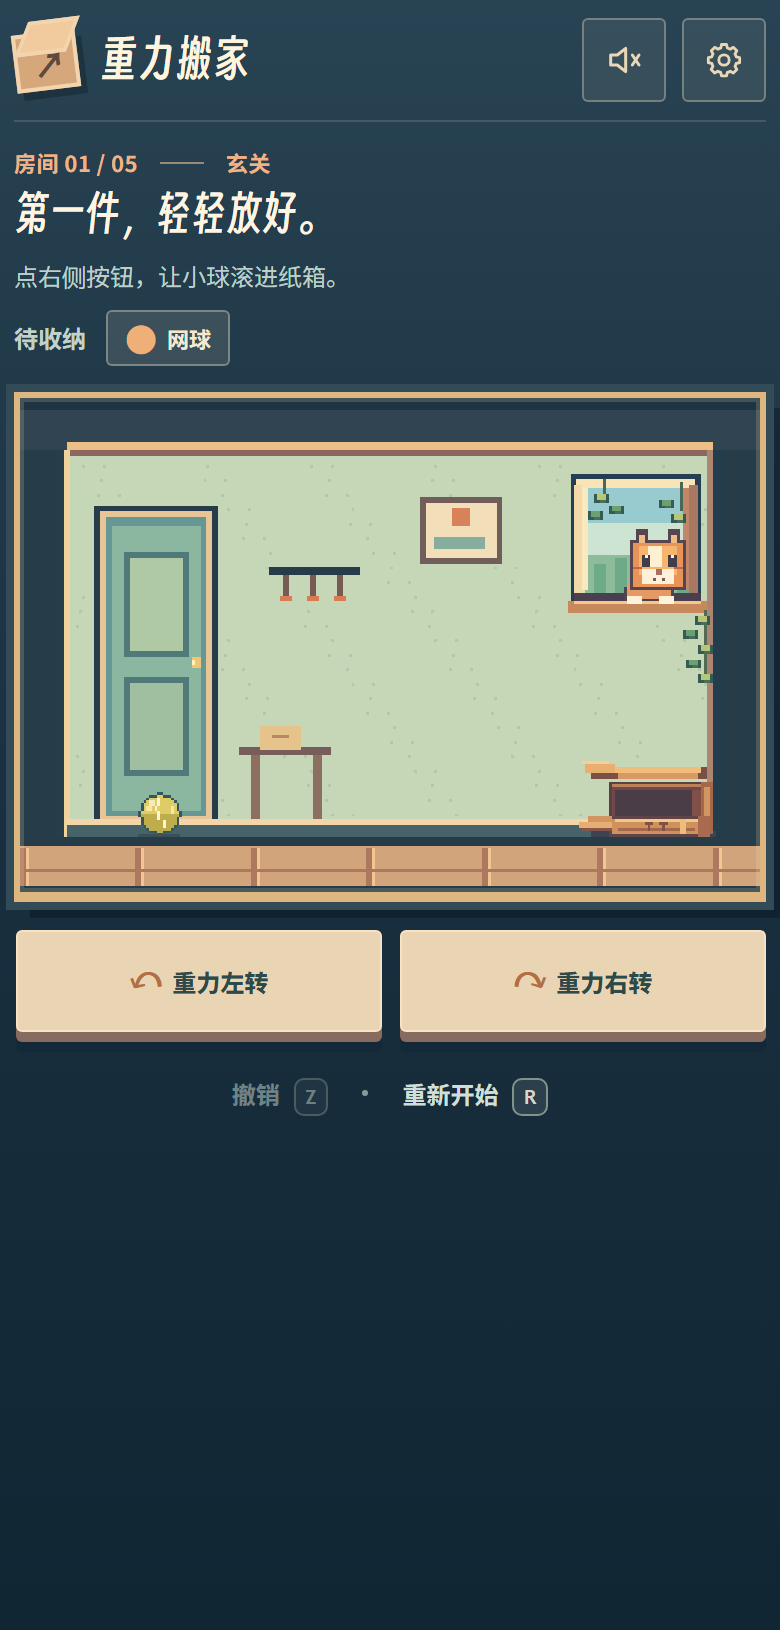
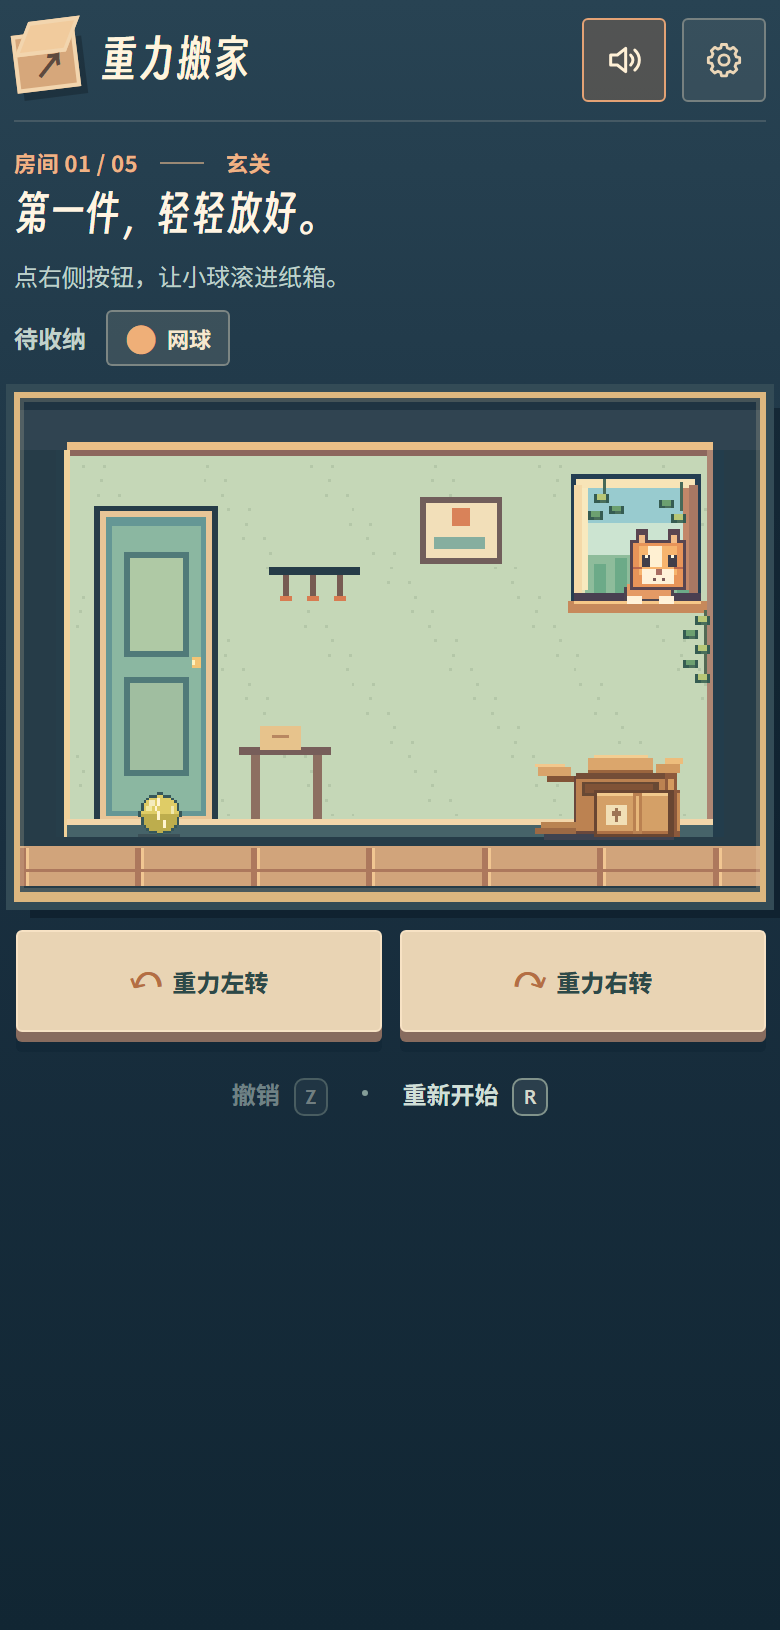
Refine carton art and add pixel dialogue audio

Changed region(s): [[0.6769, 0.4601, 0.9231, 0.5215], [0.7385, 0.0, 0.8615, 0.0613], [0.8923, 0.3988, 0.9231, 0.4294]]

diff --git a/index.html b/index.html
@@ -921,39 +921,44 @@ function createPixelArt(ctx, state) {
     const last = state.captures.at(-1);
     const age = last ? time - last.startedAt : -1000;
     const shake = age > 300 && age < 650 ? Math.round(Math.sin(age * .09) * (1 - Math.abs(age - 475) / 175)) : 0;
-    const x = 198 + shake;
-    // The carton is open on its left and upper face, matching the routes by
-    // which pieces can actually enter. Its back and floor sit behind them.
-    worldPixel(x - 5, 149, 42, 2, '#3f4350');
-    worldPixel(x + 1, 132, 35, 18, '#5a4143');
-    worldPixel(x + 2, 133, 32, 15, '#bb8058');
-    worldPixel(x + 2, 134, 30, 12, '#70474a');
-    worldPixel(x + 3, 135, 27, 10, '#4a3d47');
-    worldPixel(x + 29, 135, 3, 10, '#815147');
-    worldPixel(x + 32, 132, 4, 18, '#a5694a');
-    worldPixel(x + 33, 134, 2, 13, '#d29561');
-    worldPixel(x + 1, 127, 33, 4, '#795046');
-    worldPixel(x + 2, 127, 30, 2, '#f0bd7b');
-    worldPixel(x + 4, 129, 27, 2, '#d89966');
-    worldPixel(x - 5, 129, 9, 2, '#7a5047');
-    worldPixel(x - 7, 126, 10, 3, '#e9af71');
-    worldPixel(x - 8, 125, 9, 1, '#f6d195');
+    const x = 182 + shake;
+    // Open cardboard carton: rear flap and dark opening sit behind the items.
+    // The left corner stays open so objects can enter at floor height.
+    worldPixel(x - 5, 150, 44, 2, '#3f4350');
+    worldPixel(x + 5, 130, 34, 20, '#69473c');
+    worldPixel(x + 6, 131, 31, 18, '#bc8251');
+    worldPixel(x + 8, 132, 26, 5, '#684934');
+    worldPixel(x + 9, 133, 23, 3, '#805337');
+    worldPixel(x + 6, 129, 31, 2, '#744d37');
+    worldPixel(x + 10, 124, 22, 5, '#dba66c');
+    worldPixel(x + 12, 123, 18, 1, '#f3ce92');
+    worldPixel(x + 10, 128, 22, 1, '#9b653e');
+    worldPixel(x + 36, 129, 4, 19, '#8e5a3c');
+    worldPixel(x + 37, 131, 2, 15, '#d49a5f');
+    // Two unfolded top flaps make the silhouette read as a moving box.
+    worldPixel(x - 4, 130, 9, 2, '#825336');
+    worldPixel(x - 7, 127, 11, 3, '#d9a36a');
+    worldPixel(x - 8, 126, 10, 1, '#f2c88d');
+    worldPixel(x + 33, 126, 8, 3, '#d29a60');
+    worldPixel(x + 36, 124, 6, 2, '#edbd7c');
     return () => {
-      // A low near-side wall masks the lower edge of an arriving item. The
-      // mouth stays unobstructed, so rolling in no longer crosses a solid side.
-      worldPixel(x + 1, 144, 34, 7, '#604447');
-      worldPixel(x + 2, 145, 31, 5, '#cf925f');
-      worldPixel(x + 3, 145, 29, 1, '#f4c786');
-      worldPixel(x + 4, 148, 26, 1, '#a5694a');
-      worldPixel(x + 14, 146, 1, 3, '#825244');
-      worldPixel(x + 13, 146, 3, 1, '#825244');
-      worldPixel(x + 19, 146, 1, 3, '#825244');
-      worldPixel(x + 18, 146, 3, 1, '#825244');
-      worldPixel(x + 25, 145, 2, 5, '#edbd7e');
-      worldPixel(x - 6, 144, 8, 2, '#d29461');
-      worldPixel(x - 9, 146, 11, 2, '#e7ad72');
-      worldPixel(x - 8, 148, 10, 1, '#84554a');
-      worldPixel(x + 31, 144, 4, 7, '#a96b4f');
+      // A broad, uninterrupted kraft front hides collected pieces and reads
+      // as cardboard rather than a cabinet door or drawer.
+      worldPixel(x + 12, 135, 27, 16, '#694632');
+      worldPixel(x + 13, 136, 24, 14, '#d4a067');
+      worldPixel(x + 13, 136, 24, 1, '#f1c98d');
+      worldPixel(x + 13, 149, 24, 1, '#ad7145');
+      worldPixel(x + 25, 136, 3, 14, '#ba8151');
+      worldPixel(x + 26, 137, 1, 12, '#e7b77a');
+      worldPixel(x + 16, 140, 7, 7, '#f1dfb6');
+      worldPixel(x + 19, 141, 1, 5, '#9d7455');
+      worldPixel(x + 18, 142, 3, 1, '#9d7455');
+      worldPixel(x + 18, 143, 1, 1, '#9d7455');
+      worldPixel(x + 20, 143, 1, 1, '#9d7455');
+      worldPixel(x + 39, 135, 2, 16, '#8b593c');
+      worldPixel(x + 40, 136, 1, 13, '#c88c55');
+      worldPixel(x - 6, 146, 12, 3, '#b98351');
+      worldPixel(x - 8, 148, 14, 2, '#9c6944');
     };
   }
 
@@ -973,11 +978,11 @@ function createPixelArt(ctx, state) {
         ctx.save(); ctx.globalAlpha = 1 - age / 380;
         ctx.strokeStyle = '#fff0ab'; ctx.lineWidth = 8;
         const r = 16 + age / 14;
-        ctx.strokeRect(874 - r, 550 - r * .6, r * 2, r * 1.2);
+        ctx.strokeRect(830 - r, 550 - r * .6, r * 2, r * 1.2);
         ctx.restore();
       }
       for (let i = 0; i < 20; i++) {
-        const x = 874 + ((i * 37) % 29 - 14) * 8 * t;
+        const x = 830 + ((i * 37) % 29 - 14) * 8 * t;
         const y = 542 - (110 + (i * 11) % 70) * t + 115 * t * t;
         ctx.save(); ctx.globalAlpha = Math.min(1, (900 - age) / 210);
         fill(ctx, Math.round(x / P) * P, Math.round(y / P) * P, 8, 8, ['#ffe2a3', '#ec9b6a', '#a8d6a2', '#fff4d1'][i % 4]);
@@ -1002,7 +1007,7 @@ function createPixelArt(ctx, state) {
   const { Engine, Bodies, Body, Composite, Events, Sleeping } = Matter;
   const W = 1000, H = 680;
   const FLOOR = 604, CEILING = 76, LEFT = 62, RIGHT = 938;
-  const CATCH = { x: 826, y: 530, w: 108, h: 74 };
+  const CATCH = { x: 800, y: 530, w: 88, h: 74 };
   const DIRECTIONS = [
     { x: 0, y: 1, arrow: '↓', name: '向下' },
     { x: 1, y: 0, arrow: '→', name: '向右' },
@@ -1534,6 +1539,9 @@ function createPixelArt(ctx, state) {
         });
       } else if (kind === 'ui') {
         tone('sine', 620, 810, t, .12, .025);
+      } else if (kind === 'type') {
+        const pitch = 590 + (material.codePointAt(0) % 4) * 42;
+        tone('square', pitch, pitch * .8, t, .032, .006);
       }
     } catch { /* Audio is optional. */ }
   }
@@ -1553,7 +1561,7 @@ function createPixelArt(ctx, state) {
       if (progress >= 1) continue;
       const eased = 1 - Math.pow(1 - progress, 3);
       const item = LEVELS[state.level].items.find(i => i.id === capture.id);
-      const body = { position: { x: capture.x + (880 - capture.x) * eased, y: capture.y + (570 - capture.y) * eased }, angle: capture.angle + eased * .18 };
+      const body = { position: { x: capture.x + (830 - capture.x) * eased, y: capture.y + (550 - capture.y) * eased }, angle: capture.angle + eased * .18 };
       art.drawItem(item, body, time, 1 - eased * .55, 1 - eased);
     }
     boxFront();
@@ -1602,13 +1610,20 @@ function createPixelArt(ctx, state) {
     draw(time);
   }
 
-  function toggleSound() {
-    state.sound = !state.sound;
+  function setSound(enabled, feedback = false) {
+    state.sound = enabled;
     elements.soundButton.setAttribute('aria-pressed', String(state.sound));
     elements.soundButton.setAttribute('aria-label', state.sound ? '关闭游戏音效，当前已开启' : '开启游戏音效，当前已关闭');
     elements.soundButton.title = state.sound ? '音效已开启' : '音效已关闭';
-    if (state.sound) sound('ui');
+    if (state.sound) {
+      try {
+        state.audio ||= new (window.AudioContext || window.webkitAudioContext)();
+        if (state.audio.state === 'suspended') state.audio.resume();
+      } catch { /* Audio is optional. */ }
+      if (feedback) sound('ui');
+    }
   }
+  function toggleSound() { setSound(!state.sound, true); }
 
   function showIntro() {
     state.introStep = 0;
@@ -1638,6 +1653,7 @@ function createPixelArt(ctx, state) {
       state.introTypingTimer = setInterval(() => {
         length++;
         elements.catIntroTyped.textContent = characters.slice(0, length).join('');
+        if (!/[\s，。！；：、,.!?]/u.test(characters[length - 1])) sound('type', characters[length - 1]);
         if (length >= characters.length) {
           clearInterval(state.introTypingTimer);
           state.introTypingTimer = 0;
@@ -1684,12 +1700,14 @@ function createPixelArt(ctx, state) {
   elements.turnRight.addEventListener('click', () => turn(1));
   elements.startMotion.addEventListener('click', () => {
     state.started = true;
+    setSound(true);
     elements.startDialog.close();
     toggleMotion();
     showIntro();
   });
   elements.startButtons.addEventListener('click', () => {
     state.started = true;
+    setSound(true);
     elements.startDialog.close();
     updateMotionUI('按钮操作中，可随时在设置里切换体感。');
     showIntro();

diff --git a/src/pixel-art.js b/src/pixel-art.js
@@ -401,39 +401,44 @@ function createPixelArt(ctx, state) {
     const last = state.captures.at(-1);
     const age = last ? time - last.startedAt : -1000;
     const shake = age > 300 && age < 650 ? Math.round(Math.sin(age * .09) * (1 - Math.abs(age - 475) / 175)) : 0;
-    const x = 198 + shake;
-    // The carton is open on its left and upper face, matching the routes by
-    // which pieces can actually enter. Its back and floor sit behind them.
-    worldPixel(x - 5, 149, 42, 2, '#3f4350');
-    worldPixel(x + 1, 132, 35, 18, '#5a4143');
-    worldPixel(x + 2, 133, 32, 15, '#bb8058');
-    worldPixel(x + 2, 134, 30, 12, '#70474a');
-    worldPixel(x + 3, 135, 27, 10, '#4a3d47');
-    worldPixel(x + 29, 135, 3, 10, '#815147');
-    worldPixel(x + 32, 132, 4, 18, '#a5694a');
-    worldPixel(x + 33, 134, 2, 13, '#d29561');
-    worldPixel(x + 1, 127, 33, 4, '#795046');
-    worldPixel(x + 2, 127, 30, 2, '#f0bd7b');
-    worldPixel(x + 4, 129, 27, 2, '#d89966');
-    worldPixel(x - 5, 129, 9, 2, '#7a5047');
-    worldPixel(x - 7, 126, 10, 3, '#e9af71');
-    worldPixel(x - 8, 125, 9, 1, '#f6d195');
+    const x = 182 + shake;
+    // Open cardboard carton: rear flap and dark opening sit behind the items.
+    // The left corner stays open so objects can enter at floor height.
+    worldPixel(x - 5, 150, 44, 2, '#3f4350');
+    worldPixel(x + 5, 130, 34, 20, '#69473c');
+    worldPixel(x + 6, 131, 31, 18, '#bc8251');
+    worldPixel(x + 8, 132, 26, 5, '#684934');
+    worldPixel(x + 9, 133, 23, 3, '#805337');
+    worldPixel(x + 6, 129, 31, 2, '#744d37');
+    worldPixel(x + 10, 124, 22, 5, '#dba66c');
+    worldPixel(x + 12, 123, 18, 1, '#f3ce92');
+    worldPixel(x + 10, 128, 22, 1, '#9b653e');
+    worldPixel(x + 36, 129, 4, 19, '#8e5a3c');
+    worldPixel(x + 37, 131, 2, 15, '#d49a5f');
+    // Two unfolded top flaps make the silhouette read as a moving box.
+    worldPixel(x - 4, 130, 9, 2, '#825336');
+    worldPixel(x - 7, 127, 11, 3, '#d9a36a');
+    worldPixel(x - 8, 126, 10, 1, '#f2c88d');
+    worldPixel(x + 33, 126, 8, 3, '#d29a60');
+    worldPixel(x + 36, 124, 6, 2, '#edbd7c');
     return () => {
-      // A low near-side wall masks the lower edge of an arriving item. The
-      // mouth stays unobstructed, so rolling in no longer crosses a solid side.
-      worldPixel(x + 1, 144, 34, 7, '#604447');
-      worldPixel(x + 2, 145, 31, 5, '#cf925f');
-      worldPixel(x + 3, 145, 29, 1, '#f4c786');
-      worldPixel(x + 4, 148, 26, 1, '#a5694a');
-      worldPixel(x + 14, 146, 1, 3, '#825244');
-      worldPixel(x + 13, 146, 3, 1, '#825244');
-      worldPixel(x + 19, 146, 1, 3, '#825244');
-      worldPixel(x + 18, 146, 3, 1, '#825244');
-      worldPixel(x + 25, 145, 2, 5, '#edbd7e');
-      worldPixel(x - 6, 144, 8, 2, '#d29461');
-      worldPixel(x - 9, 146, 11, 2, '#e7ad72');
-      worldPixel(x - 8, 148, 10, 1, '#84554a');
-      worldPixel(x + 31, 144, 4, 7, '#a96b4f');
+      // A broad, uninterrupted kraft front hides collected pieces and reads
+      // as cardboard rather than a cabinet door or drawer.
+      worldPixel(x + 12, 135, 27, 16, '#694632');
+      worldPixel(x + 13, 136, 24, 14, '#d4a067');
+      worldPixel(x + 13, 136, 24, 1, '#f1c98d');
+      worldPixel(x + 13, 149, 24, 1, '#ad7145');
+      worldPixel(x + 25, 136, 3, 14, '#ba8151');
+      worldPixel(x + 26, 137, 1, 12, '#e7b77a');
+      worldPixel(x + 16, 140, 7, 7, '#f1dfb6');
+      worldPixel(x + 19, 141, 1, 5, '#9d7455');
+      worldPixel(x + 18, 142, 3, 1, '#9d7455');
+      worldPixel(x + 18, 143, 1, 1, '#9d7455');
+      worldPixel(x + 20, 143, 1, 1, '#9d7455');
+      worldPixel(x + 39, 135, 2, 16, '#8b593c');
+      worldPixel(x + 40, 136, 1, 13, '#c88c55');
+      worldPixel(x - 6, 146, 12, 3, '#b98351');
+      worldPixel(x - 8, 148, 14, 2, '#9c6944');
     };
   }
 
@@ -453,11 +458,11 @@ function createPixelArt(ctx, state) {
         ctx.save(); ctx.globalAlpha = 1 - age / 380;
         ctx.strokeStyle = '#fff0ab'; ctx.lineWidth = 8;
         const r = 16 + age / 14;
-        ctx.strokeRect(874 - r, 550 - r * .6, r * 2, r * 1.2);
+        ctx.strokeRect(830 - r, 550 - r * .6, r * 2, r * 1.2);
         ctx.restore();
       }
       for (let i = 0; i < 20; i++) {
-        const x = 874 + ((i * 37) % 29 - 14) * 8 * t;
+        const x = 830 + ((i * 37) % 29 - 14) * 8 * t;
         const y = 542 - (110 + (i * 11) % 70) * t + 115 * t * t;
         ctx.save(); ctx.globalAlpha = Math.min(1, (900 - age) / 210);
         fill(ctx, Math.round(x / P) * P, Math.round(y / P) * P, 8, 8, ['#ffe2a3', '#ec9b6a', '#a8d6a2', '#fff4d1'][i % 4]);

diff --git a/src/app.js b/src/app.js
@@ -3,7 +3,7 @@
   const { Engine, Bodies, Body, Composite, Events, Sleeping } = Matter;
   const W = 1000, H = 680;
   const FLOOR = 604, CEILING = 76, LEFT = 62, RIGHT = 938;
-  const CATCH = { x: 826, y: 530, w: 108, h: 74 };
+  const CATCH = { x: 800, y: 530, w: 88, h: 74 };
   const DIRECTIONS = [
     { x: 0, y: 1, arrow: '↓', name: '向下' },
     { x: 1, y: 0, arrow: '→', name: '向右' },
@@ -535,6 +535,9 @@
         });
       } else if (kind === 'ui') {
         tone('sine', 620, 810, t, .12, .025);
+      } else if (kind === 'type') {
+        const pitch = 590 + (material.codePointAt(0) % 4) * 42;
+        tone('square', pitch, pitch * .8, t, .032, .006);
       }
     } catch { /* Audio is optional. */ }
   }
@@ -554,7 +557,7 @@
       if (progress >= 1) continue;
       const eased = 1 - Math.pow(1 - progress, 3);
       const item = LEVELS[state.level].items.find(i => i.id === capture.id);
-      const body = { position: { x: capture.x + (880 - capture.x) * eased, y: capture.y + (570 - capture.y) * eased }, angle: capture.angle + eased * .18 };
+      const body = { position: { x: capture.x + (830 - capture.x) * eased, y: capture.y + (550 - capture.y) * eased }, angle: capture.angle + eased * .18 };
       art.drawItem(item, body, time, 1 - eased * .55, 1 - eased);
     }
     boxFront();
@@ -603,13 +606,20 @@
     draw(time);
   }
 
-  function toggleSound() {
-    state.sound = !state.sound;
+  function setSound(enabled, feedback = false) {
+    state.sound = enabled;
     elements.soundButton.setAttribute('aria-pressed', String(state.sound));
     elements.soundButton.setAttribute('aria-label', state.sound ? '关闭游戏音效，当前已开启' : '开启游戏音效，当前已关闭');
     elements.soundButton.title = state.sound ? '音效已开启' : '音效已关闭';
-    if (state.sound) sound('ui');
+    if (state.sound) {
+      try {
+        state.audio ||= new (window.AudioContext || window.webkitAudioContext)();
+        if (state.audio.state === 'suspended') state.audio.resume();
+      } catch { /* Audio is optional. */ }
+      if (feedback) sound('ui');
+    }
   }
+  function toggleSound() { setSound(!state.sound, true); }
 
   function showIntro() {
     state.introStep = 0;
@@ -639,6 +649,7 @@
       state.introTypingTimer = setInterval(() => {
         length++;
         elements.catIntroTyped.textContent = characters.slice(0, length).join('');
+        if (!/[\s，。！；：、,.!?]/u.test(characters[length - 1])) sound('type', characters[length - 1]);
         if (length >= characters.length) {
           clearInterval(state.introTypingTimer);
           state.introTypingTimer = 0;
@@ -685,12 +696,14 @@
   elements.turnRight.addEventListener('click', () => turn(1));
   elements.startMotion.addEventListener('click', () => {
     state.started = true;
+    setSound(true);
     elements.startDialog.close();
     toggleMotion();
     showIntro();
   });
   elements.startButtons.addEventListener('click', () => {
     state.started = true;
+    setSound(true);
     elements.startDialog.close();
     updateMotionUI('按钮操作中，可随时在设置里切换体感。');
     showIntro();

diff --git a/README.md b/README.md
@@ -10,7 +10,7 @@
 
 1. 用手机浏览器打开上面的 HTTPS 链接，先选择“点击按钮”，确认游戏和关卡可正常运行。
 2. 刷新页面，选择“倾斜手机”；如果浏览器请求运动传感器权限，请允许访问。
-3. 竖屏缓慢倾斜手机，观察物件运动；手机正放时物件应向下，哪一侧压低就应向哪一侧滚动。右上角齿轮可切换操作方式，也可直接选择五间房。旁边的扬声器图标可切换反馈音效，没有循环背景音乐。客厅之后的房间需要先让木块碰到橙色开关。
+3. 竖屏缓慢倾斜手机，观察物件运动；手机正放时物件应向下，哪一侧压低就应向哪一侧滚动。右上角齿轮可切换操作方式，也可直接选择五间房。进入游戏后音效默认开启，小猫的逐字对话也有轻短的像素打字声；旁边的扬声器图标可随时静音，没有循环背景音乐。客厅之后的房间需要先让木块碰到橙色开关。
 
 体感需要设备提供运动传感器，并由浏览器开放相关接口。无法获取传感器数据时，游戏会回退到按钮操作。体感优先读取倾角，倾角中断时才用加速度；源码按 W3C 设备坐标映射，实际方向与手感仍需在目标手机上测试。如果方向与手持姿势不符，可打开[传感器诊断页](sensor-check.html)记录原始读数；该页面不会自动上传数据。
 
